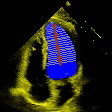
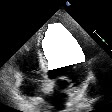
updates

diff --git a/echofunctions/algorithms/funcs.py b/echofunctions/algorithms/funcs.py
@@ -11,16 +11,16 @@ def obtainContourPoints(path):
   #rgb = cv2.cvtColor(img, cv2.COLOR_RGBA2RGB)
 
   # set lower and upper bounds on blue color
-  # lower = (0,0,100)
-  # upper = (50,50,255)
+  lower = (0,0,100)
+  upper = (50,50,255)
 
   # #Red
   # lower = (0, 0, 220)
   # upper = (100, 100, 255)
 
-  # White
-  lower = (200,200,200)
-  upper = (255,255,255)
+  # # White
+  # lower = (200,200,200)
+  # upper = (255,255,255)
   
   # threshold and invert so hexagon is white on black background
   thresh = cv2.inRange(rgb, lower, upper)
